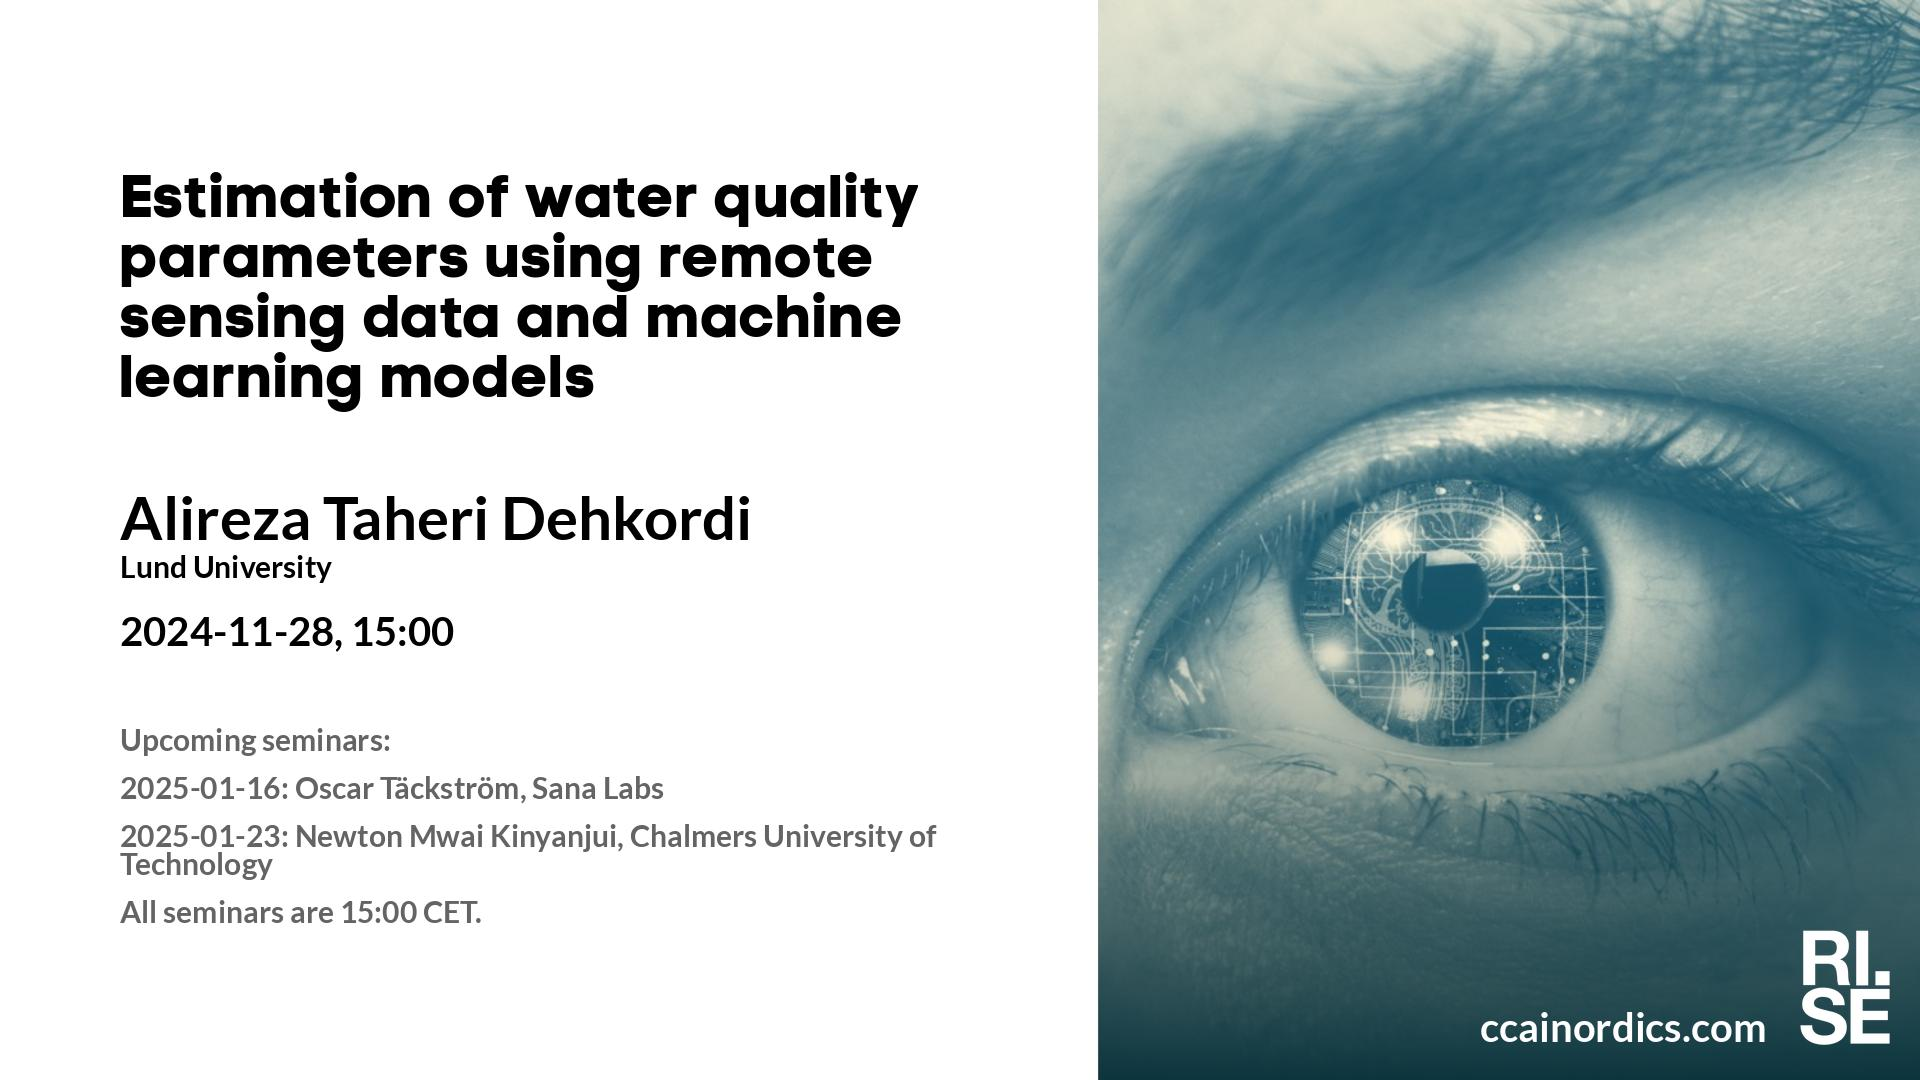
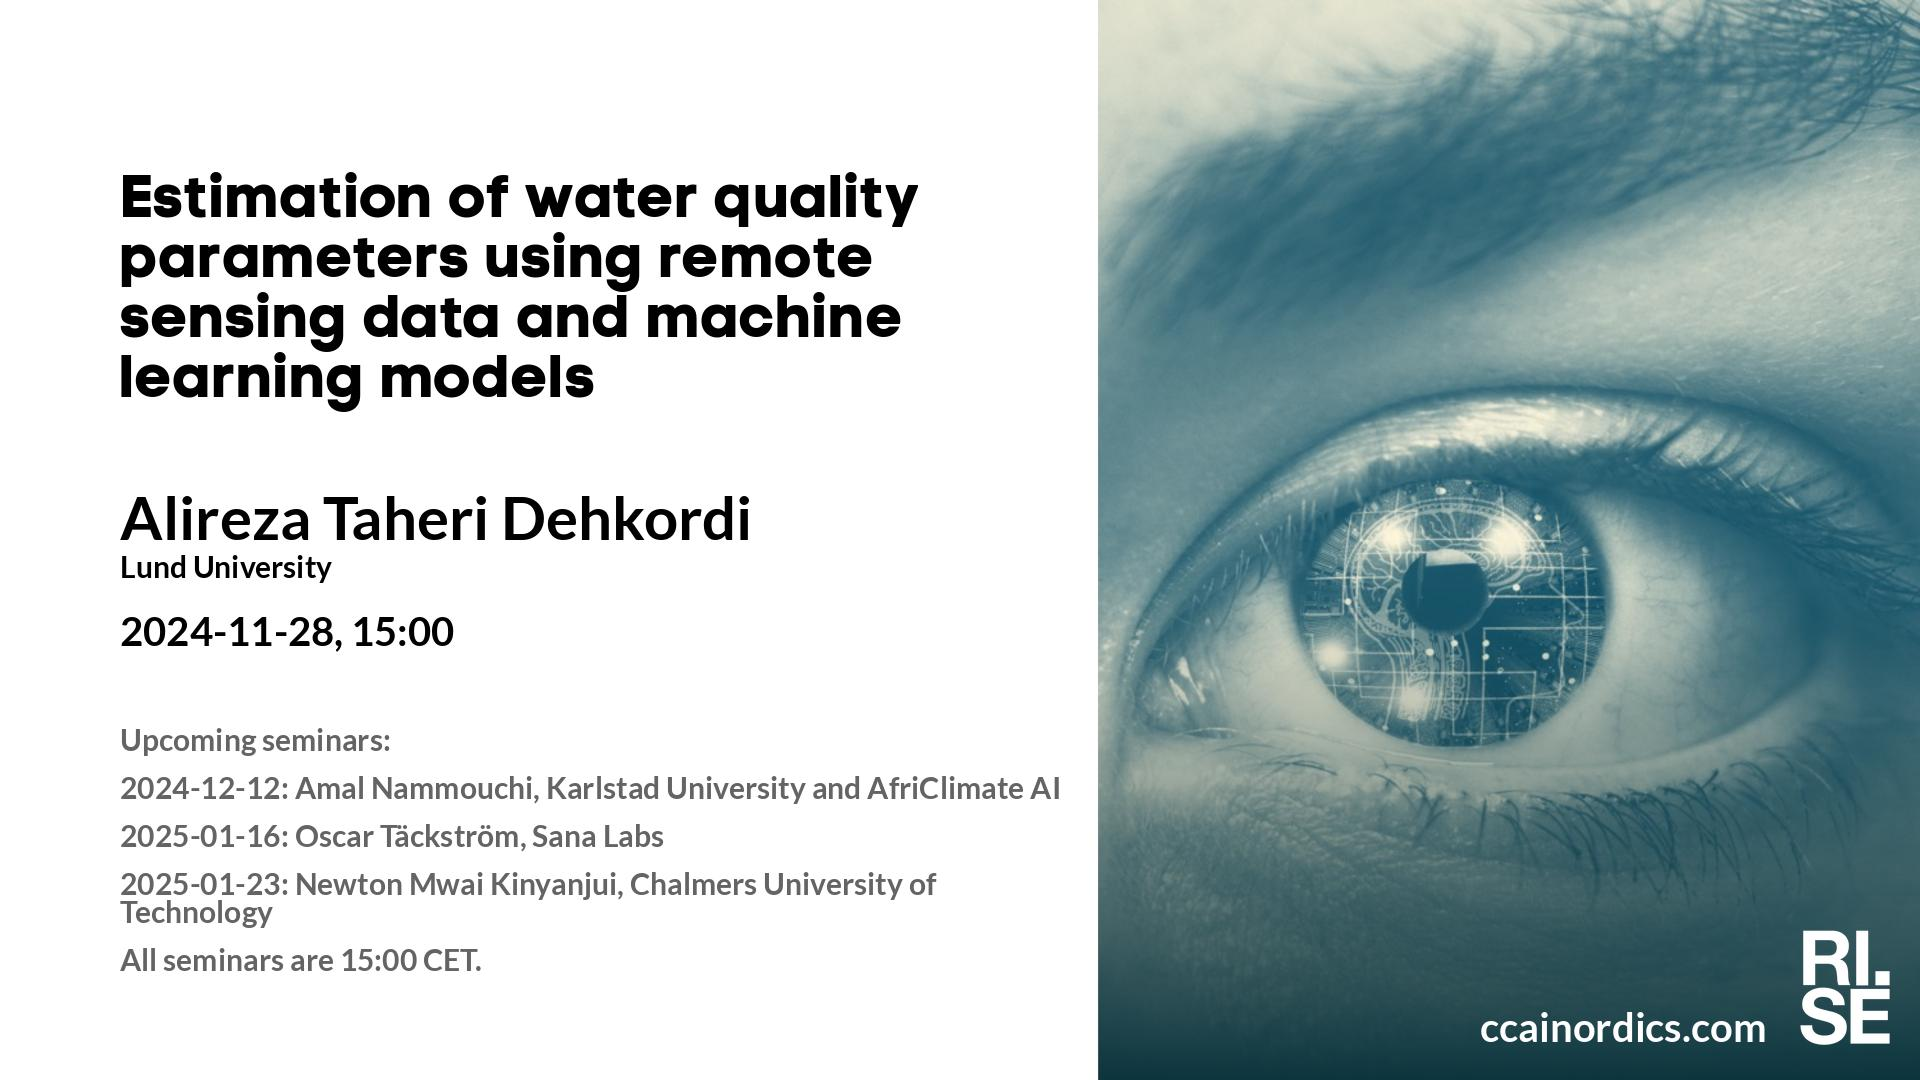
Updated plan on web site.

Changed region(s): [[0.0625, 0.7028, 0.5625, 0.9167]]

diff --git a/lm/index.md b/lm/index.md
@@ -15,12 +15,12 @@ table {border-collapse: collapse;}
 |  2024-11-21  |  [Alp Kucukelbir, Columbia University](2024-11-21.md)  |  [photo](photo-alp-kucukelbir.jpg)  |  [social media ](social-media-alp-kucukelbir.jpg)  |  [meeting backdrop ](meeting-backdrop-alp-kucukelbir.jpg)  |  [youtube thumbnail ](youtube-thumbnail-alp-kucukelbir.jpg)  |  STABP  |
 |  2024-11-28  |  [Alireza Taheri Dehkordi, Lund University](2024-11-28.md)  |  [photo](photo-alireza-taheri-dehkordi.jpg)  |  [social media ](social-media-alireza-taheri-dehkordi.jpg)  |  [meeting backdrop ](meeting-backdrop-alireza-taheri-dehkordi.jpg)  |  [youtube thumbnail ](youtube-thumbnail-alireza-taheri-dehkordi.jpg)  |  STABP  |
 | <span style="color:grey"> 2024-12-05 </span> | <span style="color:grey"> Jonas A. ? </span> | <span style="color:grey">  </span> | <span style="color:grey">  </span> | <span style="color:grey">  </span> | <span style="color:grey">  </span> | <span style="color:grey"> S~~TABP~~ </span> |
-| <span style="color:purple"> 2024-12-12 </span> | <span style="color:purple"> *Up for grabs!!!* </span> | <span style="color:purple">  </span> | <span style="color:purple">  </span> | <span style="color:purple">  </span> | <span style="color:purple">  </span> | <span style="color:purple"> ~~STABP~~ </span> |
+|  2024-12-12  |  [Amal Nammouchi, Karlstad University and AfriClimate AI](2024-12-12.md)  |    |  [social media ](social-media-amal-nammouchi.jpg)  |  [meeting backdrop ](meeting-backdrop-amal-nammouchi.jpg)  |  [youtube thumbnail ](youtube-thumbnail-amal-nammouchi.jpg)  |  S~~TABP~~  |
 | <span style="color:red"> 2024-12-19 </span> | <span style="color:red"> Jullov </span> | <span style="color:red">  </span> | <span style="color:red">  </span> | <span style="color:red">  </span> | <span style="color:red">  </span> | <span style="color:red"> CANCELLED </span> |
 | <span style="color:red"> 2024-12-26 </span> | <span style="color:red"> Jullov </span> | <span style="color:red">  </span> | <span style="color:red">  </span> | <span style="color:red">  </span> | <span style="color:red">  </span> | <span style="color:red"> CANCELLED </span> |
 |  2025-01-16  |  [Oscar Täckström, Sana Labs](2025-01-16.md)  |    |  [social media ](social-media-oscar-tackstrom.jpg)  |  [meeting backdrop ](meeting-backdrop-oscar-tackstrom.jpg)  |  [youtube thumbnail ](youtube-thumbnail-oscar-tackstrom.jpg)  |  S~~TABP~~  |
 |  2025-01-23  |  [Newton Mwai Kinyanjui, Chalmers University of Technology](2025-01-23.md)  |    |  [social media ](social-media-newton-mwai-kinyanjui.jpg)  |  [meeting backdrop ](meeting-backdrop-newton-mwai-kinyanjui.jpg)  |  [youtube thumbnail ](youtube-thumbnail-newton-mwai-kinyanjui.jpg)  |  S~~TABP~~  |
-| <span style="color:grey"> 2025-01-30 </span> | <span style="color:grey"> Amal N. ? </span> | <span style="color:grey">  </span> | <span style="color:grey">  </span> | <span style="color:grey">  </span> | <span style="color:grey">  </span> | <span style="color:grey"> S~~TABP~~ </span> |
+| <span style="color:purple"> 2025-01-30 </span> | <span style="color:purple"> *Up for grabs!!!* </span> | <span style="color:purple">  </span> | <span style="color:purple">  </span> | <span style="color:purple">  </span> | <span style="color:purple">  </span> | <span style="color:purple"> ~~STABP~~ </span> |
 | <span style="color:purple"> 2025-02-06 </span> | <span style="color:purple"> *Up for grabs!!!* </span> | <span style="color:purple">  </span> | <span style="color:purple">  </span> | <span style="color:purple">  </span> | <span style="color:purple">  </span> | <span style="color:purple"> ~~STABP~~ </span> |
 | <span style="color:red"> 2025-02-13 </span> | <span style="color:red"> Sportlov GBG </span> | <span style="color:red">  </span> | <span style="color:red">  </span> | <span style="color:red">  </span> | <span style="color:red">  </span> | <span style="color:red"> CANCELLED </span> |
 | <span style="color:purple"> 2025-02-20 </span> | <span style="color:purple"> *Up for grabs!!!* </span> | <span style="color:purple">  </span> | <span style="color:purple">  </span> | <span style="color:purple">  </span> | <span style="color:purple">  </span> | <span style="color:purple"> ~~STABP~~ </span> |

diff --git a/lm/2024-11-21.md b/lm/2024-11-21.md
@@ -30,6 +30,7 @@ This talk is for AI practitioners looking to understand how AI fits into the big
 **Upcoming seminars:**
 
 * 2024-11-28: Alireza Taheri Dehkordi, Lund University, **digital and physical: Scheelevägen 17, Lund**
+* 2024-12-12: Amal Nammouchi, Karlstad University and AfriClimate AI
 * 2025-01-16: Oscar Täckström, Sana Labs
 * 2025-01-23: Newton Mwai Kinyanjui, Chalmers University of Technology
 * All seminars are 15:00 CET.

diff --git a/lm/2024-11-28.md b/lm/2024-11-28.md
@@ -29,6 +29,7 @@ This seminar will have an in-person presence at the RISE office in Lund, located
 
 **Upcoming seminars:**
 
+* 2024-12-12: Amal Nammouchi, Karlstad University and AfriClimate AI
 * 2025-01-16: Oscar Täckström, Sana Labs
 * 2025-01-23: Newton Mwai Kinyanjui, Chalmers University of Technology
 * All seminars are 15:00 CET.

diff --git a/lm/2024-12-12.md b/lm/2024-12-12.md
@@ -1,7 +1,10 @@
 ---
 layout: default
 metatags: "<meta name=\"robots\" content=\"noindex,nofollow\" />"
+event_date: 2024-12-12 15:00
+event_location: 
 ---
+ 
 Welcome to this week's Learning Machines seminar.
 
 **Title:** N/A

diff --git a/lm/2025-01-16.md b/lm/2025-01-16.md
@@ -1,6 +1,8 @@
 ---
 layout: default
 metatags: "<meta name=\"robots\" content=\"noindex,nofollow\" />"
+event_date: 2025-01-16 15:00
+event_location: 
 ---
  
 Welcome to this week's Learning Machines seminar.

diff --git a/lm/2025-01-23.md b/lm/2025-01-23.md
@@ -1,6 +1,8 @@
 ---
 layout: default
 metatags: "<meta name=\"robots\" content=\"noindex,nofollow\" />"
+event_date: 2025-01-23 15:00
+event_location: 
 ---
  
 Welcome to this week's Learning Machines seminar.
